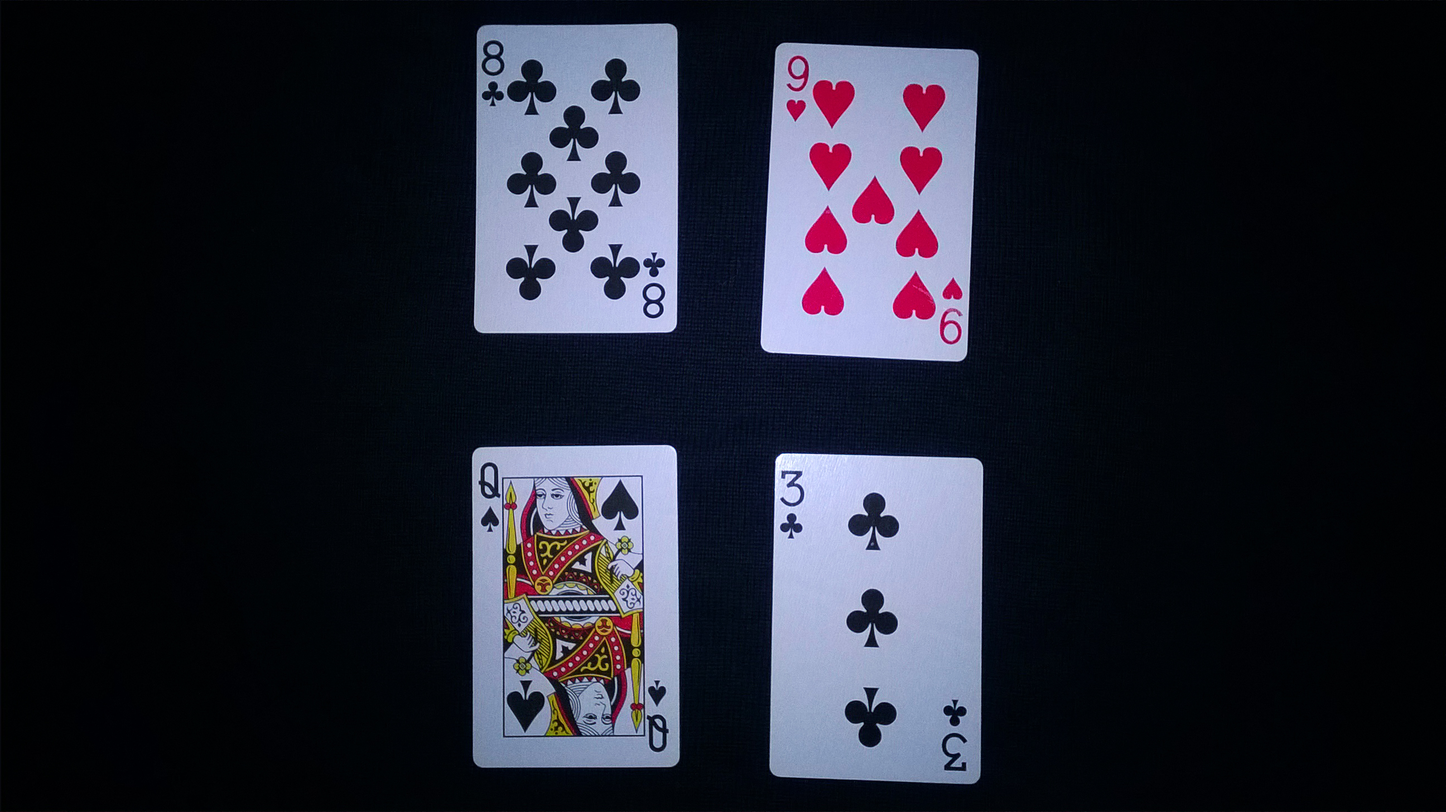
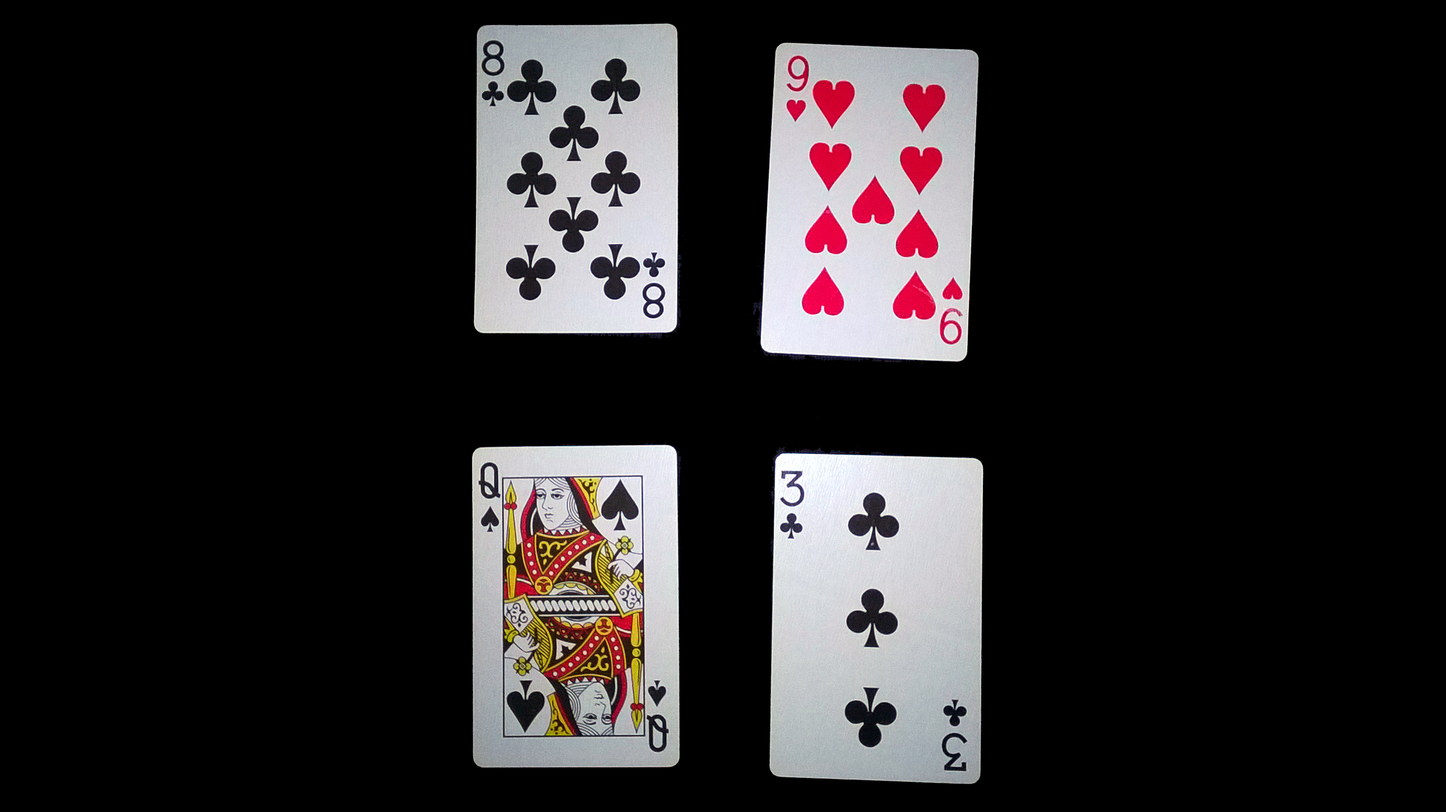
Writing cards names, winner, looser or draw

Changed region(s): [[0.3125, 0.0, 0.7188, 0.989]]

diff --git a/CardsDetection/CardsDetection.cpp b/CardsDetection/CardsDetection.cpp
@@ -162,18 +162,47 @@ double computeCardAngle(PlayedCard* card) {
 
 }
 
-PlayedCard* getWinner(vector<PlayedCard*> playedCards) {
+void getWinner(vector<PlayedCard*> playedCards) {
 	PlayedCard* winnerCard = new PlayedCard();
+	int winnerScore = 0;
+
+	// set the highest score
 	for (unsigned int i = 0; i < 4; i++) {
-		if (i == 0)
+		if (i == 0) {
 			winnerCard = playedCards[i];
+			winnerScore = playedCards[i]->getLeastDifferentCard()->getScore();
+		}
 		else {
-			if (playedCards[i]->getLeastDifferentCard()->getScore() > winnerCard->getLeastDifferentCard()->getScore())
+			if (playedCards[i]->getLeastDifferentCard()->getScore() > winnerCard->getLeastDifferentCard()->getScore()) {
 				winnerCard = playedCards[i];
+				winnerScore = winnerCard->getLeastDifferentCard()->getScore();
+			}
+				
 		}
 	}
 
-	return winnerCard;
+	PlayedCard* card = new PlayedCard();
+	int winnerCounter = 0;
+	
+	// Mark card as winner, loser
+	for (unsigned int i = 0; i < 4; i++) {
+		card = playedCards[i];
+		if (card->getLeastDifferentCard()->getScore() >= winnerScore) {
+			card->setWinner('w');
+			winnerCounter++;
+		} else card->setWinner('l');
+	}
+	
+	// There's a draw
+	if (winnerCounter > 1) {
+		for (unsigned int i = 0; i < 4; i++) {
+			if (playedCards[i]->getWinner() == 'w')
+				playedCards[i]->setWinner('d');
+		}
+	}
+	
+	
+
 }
 
 Point getCenterPoint(PlayedCard* winnerCard) {
@@ -192,18 +221,21 @@ void imageBasedVersion(string imagesDir, int mode) {
 
 	if (mode == 0)
 		cvtColor(findContoursMat, findContoursMat, CV_RGB2GRAY);
-		
+
+	/**********************Denoise Image**********************/
 	for (int i = 1; i < MAX_KERNEL_SIZE; i = i + 2)
 		GaussianBlur(findContoursMat, findContoursMat, Size(i, i), 0.0, 0.0);
 
 	threshold(findContoursMat, findContoursMat, 120, 255, CV_THRESH_BINARY);
+	/*********************************************************/
 
 	Canny(findContoursMat, findContoursMat, 50, 250);
 
+	// Each element of this vector represents a contour of each closed shape detected
 	vector<vector<Point> > contours;
 	vector<Vec4i> hierarchy;
 
-	// Searches for possible contours
+	// Searches for possible contours and stores them hierarchically and eliminates redundant points
 	findContours(findContoursMat, contours, hierarchy, CV_RETR_TREE, CV_CHAIN_APPROX_SIMPLE);
 
 	// Sort the contours by area
@@ -220,7 +252,7 @@ void imageBasedVersion(string imagesDir, int mode) {
 	Point2f outputQuad[4] = { Point2f(0, 0), Point2f(CARD_X_SIZE - 1, 0), Point2f(CARD_X_SIZE - 1, CARD_Y_SIZE - 1), Point2f(0, CARD_Y_SIZE - 1) };
 
 	if (contours.size() >= 4) {
-		Scalar color = Scalar(255, 0, 0);
+		Scalar color = Scalar(0, 255, 0);
 		// draw the first 4 contours, this will hopefuly represent the 4 cards
 		for (unsigned int i = 0; i < 4; i++) {
 			drawContours(img, contours, i, color, 4, 8, hierarchy, 0);
@@ -229,20 +261,25 @@ void imageBasedVersion(string imagesDir, int mode) {
 
 			// gets the corner points of each card
 			rotatedRect.points(rect_points);
-			// inserts it on a vector for later use, on card class construction
 
+			// Rotates card to make it vertical
+			cardToVertical(rect_points);
+			
+			// inserts it on a vector for later use, on card class construction
 			vector<Point2f> tempPoints;
 			for (unsigned int k = 0; k < 4; k++)
 				tempPoints.push_back(rect_points[k]);
 
 			cornerPoints.push_back(tempPoints);
-			// Rotates card to make it vertical
-			cardToVertical(rect_points);
-
+			
+			// Calculates a perspective transform from four pairs of the corresponding points
 			lambda = getPerspectiveTransform(rect_points, outputQuad);
+			// Applies a prespective transformation to an image
 			warpPerspective(img, procCards[i], lambda, Size(450, 450));
 
+			// Reduce noise and do an equal treatment 
 			if (mode == 0) {
+
 				cvtColor(procCards[i], procCards[i], CV_RGB2GRAY);
 
 				for (int j = 1; j < MAX_KERNEL_SIZE; j = j + 2)
@@ -261,10 +298,11 @@ void imageBasedVersion(string imagesDir, int mode) {
 	for (unsigned int i = 0; i < 4; i++) {
 		Mat rotatedCard;
 		rotateCard(procCards[i], 180.0f, rotatedCard);
-		// push back a new played card and 
+		// push back a new played card and compute the match
 		playedCards.push_back(new PlayedCard(procCards[i], rotatedCard, contours[i], cornerPoints[i], deck, mode));
 	}
 
+	getWinner(playedCards);
 
 	// Show matched cards info
 	for (unsigned int i = 0; i < 4; i++) {
@@ -273,25 +311,11 @@ void imageBasedVersion(string imagesDir, int mode) {
 		int score = playedCards[i]->getLeastDifferentCard()->getScore();
 		cout << "Card: " << card << " | suit: " << suit << " | score: " << score << endl;
 
-		for (int j = 0; j < 4; j++) 
-			circle(img, playedCards[i]->getCornerPoints()[j], 10, Scalar(255, 0, 0), 10);
+		// write info about cards
+		playedCards[i]->drawCardText(img);
 		
 	}
 
-	PlayedCard* winnerCard = getWinner(playedCards);
-
-	cout << "--------------------------------" << endl;
-	cout << winnerCard->getCornerPoints()[0] << endl;
-	cout << winnerCard->getCornerPoints()[1] << endl;
-	cout << winnerCard->getCornerPoints()[2] << endl;
-	cout << winnerCard->getCornerPoints()[3] << endl;
-	cout << "--------------------------------" << endl;
-
-	Mat textImage = Mat::zeros(img.rows, img.cols, img.type());
-	putText(textImage, "Winner!", winnerCard->getCentralPoint(), FONT_HERSHEY_SCRIPT_COMPLEX, 3.0, Scalar(0, 0, 255));
-
-	rotateText(textImage, computeCardAngle(winnerCard), winnerCard->getCentralPoint(), textImage);
-	img = img + textImage;
 
 	namedWindow("Image", WINDOW_NORMAL);
 	imshow("Image", img);

diff --git a/CardsDetection/PlayedCard.cpp b/CardsDetection/PlayedCard.cpp
@@ -198,6 +198,78 @@ void PlayedCard::computeCentralPoint() {
 	this->centralPoint = center;
 }
 
+void PlayedCard::drawCardText(cv::Mat &srcImg) {
+
+	int FONT_FACE = FONT_HERSHEY_TRIPLEX;
+	int FONT_SCALE = 3;
+	int FONT_THICKNESS = 5;
+	int TOP_MARGIN = 80;
+
+	Mat emptyCard = Mat::zeros(450, 450, srcImg.type());
+	Mat emptyImg = Mat::zeros(srcImg.size(), srcImg.type());
+
+	/*********************************************Top center text*********************************************/
+	
+	string cardName = this->getLeastDifferentCard()->getCard() + " " + this->getLeastDifferentCard()->getSuit();
+	
+
+	Size cardNameSize = getTextSize(cardName, FONT_FACE, FONT_SCALE, FONT_THICKNESS, 0);
+
+	Point topCenterPoint = Point(225 - cardNameSize.width / 2, TOP_MARGIN);
+
+	putText(emptyCard, cardName, topCenterPoint, FONT_FACE, FONT_SCALE, Scalar(255, 255, 255), FONT_THICKNESS);
+
+	/***************************************************************************************************/
+
+	/*********************************************Center text*********************************************/
+	
+	string result;
+	Scalar color;
+	if (this->result == 'w') {
+		result = "Winner";
+		color = Scalar(0, 255, 0);
+	}
+	else if(this->result == 'l') { 
+		result = "Looser"; 
+		color = Scalar(0, 0, 255);
+	}
+	else if (this->result == 'd') {
+		result = "Draw";
+		color = Scalar(255, 255,  0);
+	}
+
+	Size resultSize = getTextSize(result, FONT_FACE, FONT_SCALE, FONT_THICKNESS, 0);
+
+	Point centerPoint = Point(225 - resultSize.width / 2, 225 + resultSize.height / 2);
+
+
+	putText(emptyCard, result, centerPoint, FONT_FACE, FONT_SCALE, color, FONT_THICKNESS);
+
+	/***************************************************************************************************/
+
+	
+	Point2f outputQuad[4] = { Point2f(0, 0), Point2f(450 - 1, 0), Point2f(450 - 1, 450 - 1), Point2f(0, 450 - 1) };
+	Point2f cornerArray[4];
+
+	for (size_t i = 0; i < 4; i++) {
+		cornerArray[i] = this->cornerPoints[i];
+	}
+
+	Mat lambda = getPerspectiveTransform(outputQuad, cornerArray);
+	warpPerspective(emptyCard, emptyImg, lambda, srcImg.size());
+
+
+	srcImg += emptyImg;
+}
+
+void PlayedCard::setWinner(char result){
+	this->result = result;
+}
+
+char PlayedCard::getWinner(){
+	return this->result;
+}
+
 Point PlayedCard::getCentralPoint(){
 	return this->centralPoint;
 }

diff --git a/CardsDetection/PlayedCard.h b/CardsDetection/PlayedCard.h
@@ -10,6 +10,9 @@ private:
 	cv::Mat originalImg;
 	cv::Mat rotatedImg;
 	cv::Point centralPoint;
+	/*Winner->w | Looser->l | Draw->d*/
+	char result;
+	
 	std::map <Card*, int> differences;
 	Card* leastDifferentCard;
 	std::vector < cv::Point2f > cornerPoints;
@@ -38,11 +41,17 @@ public:
 	/*returns the central point*/
 	cv::Point getCentralPoint();
 	/*Sets a new rotated card*/
-	void setRotatedImg(cv::Mat img);
+	void setRotatedImg(cv::Mat);
+	/*Sets the winner state*/
+	void setWinner(char);
+	/*Gets the winner state*/
+	char getWinner();
 	/*Returns a map that holds the difference value between each deck card*/
 	std::map<Card*, int> getCardDifferences();
 	/*Computes the absolute difference, mean between the sum of the difference of both rotated and unrotated card*/
 	void computeAbsDifference(std::vector<Card*>);
+	/*Draws the text on the card*/
+	void drawCardText(cv::Mat&);
 	
 	std::vector<cv::KeyPoint> getKeypointsOriginal();
 	cv::Mat getDescriptorsOriginal();

diff --git a/CardsDetection/CardsDetection.h b/CardsDetection/CardsDetection.h
@@ -48,7 +48,7 @@ void processVideo(cv::Mat, int);
 bool compareAreas(std::vector<cv::Point>, std::vector<cv::Point>);
 
 /*Returns the card with highest score*/
-PlayedCard* getWinner(std::vector<PlayedCard*>);
+void getWinner(std::vector<PlayedCard*>);
 
 /*Returns a card's center point*/
 cv::Point getCenterPoint(PlayedCard*);
